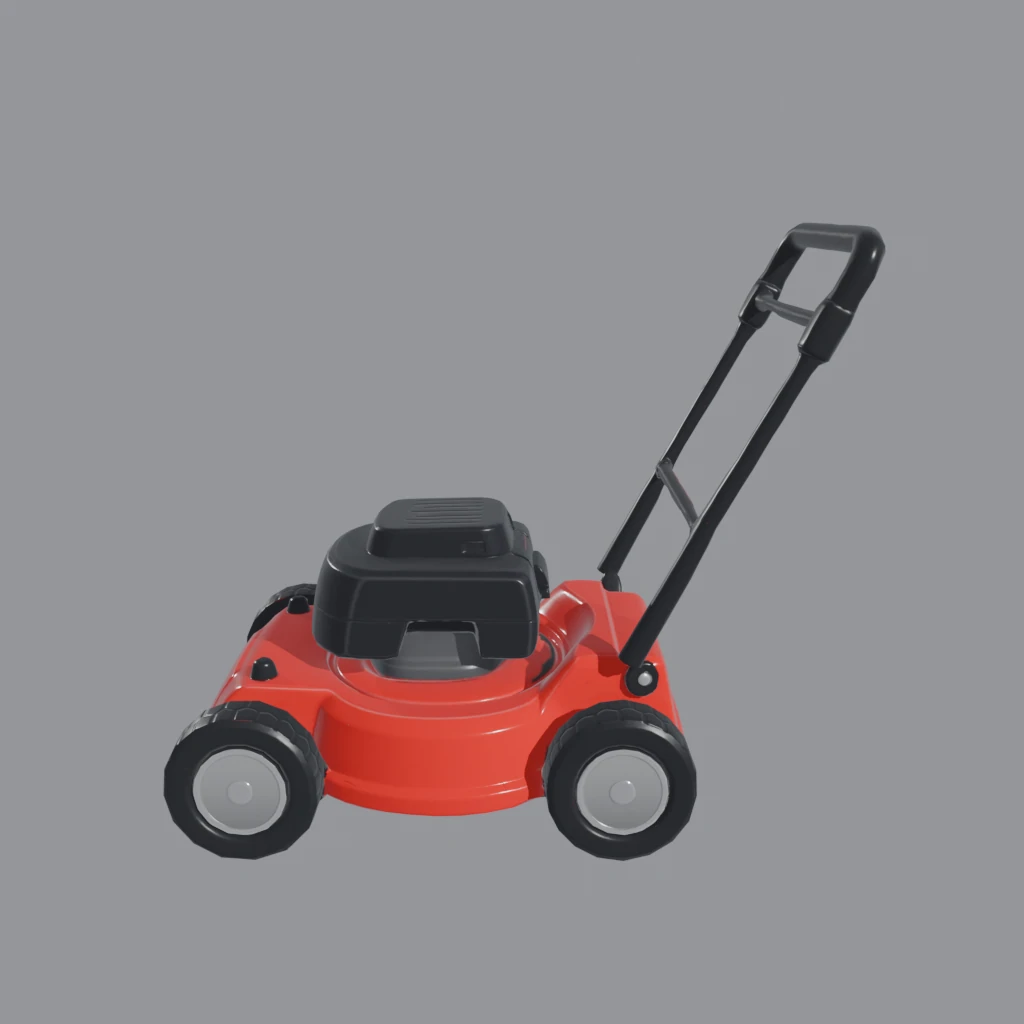
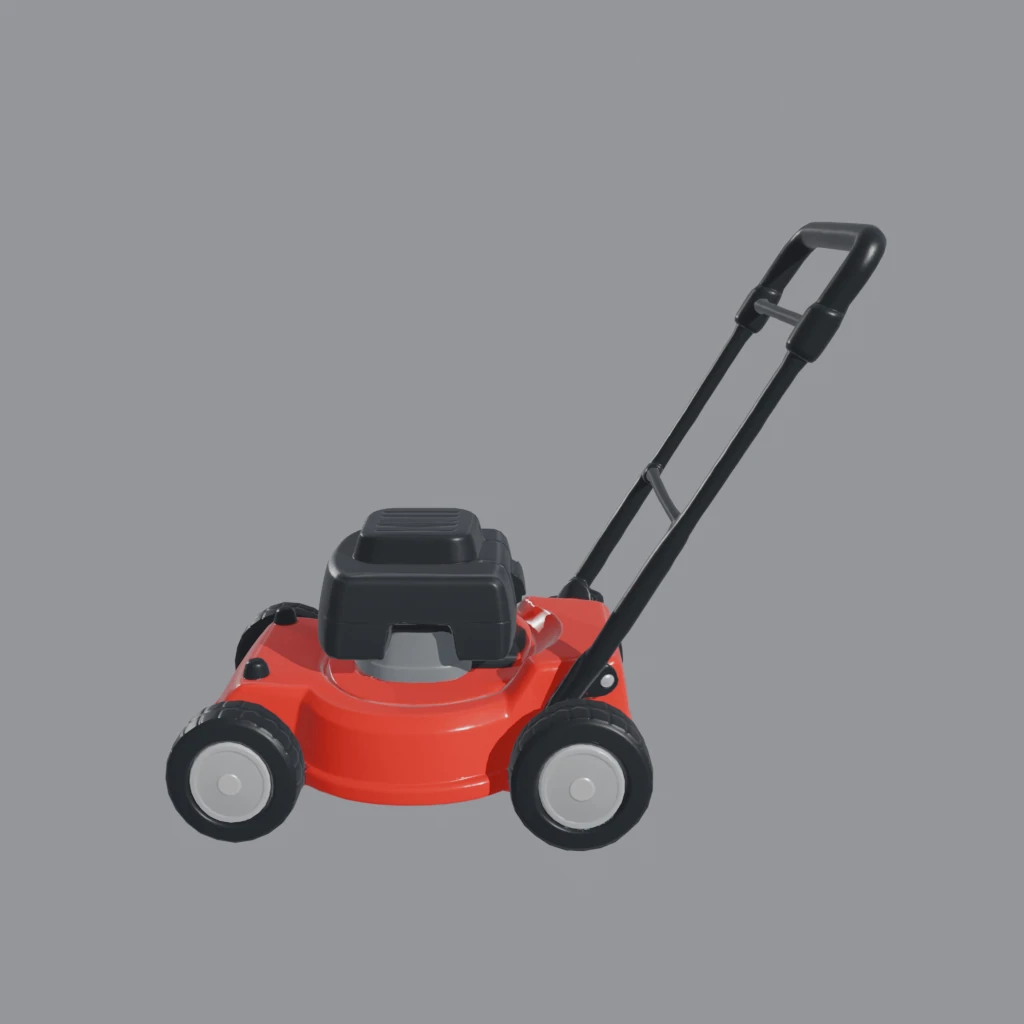
Update model picks

Changed region(s): [[0.1562, 0.2188, 0.875, 0.8438]]

diff --git a/docs/jobs/20260916-070020-7c269c65_e30f_471e_8b7c_ec1322e5fa7b/index.html b/docs/jobs/20260916-070020-7c269c65_e30f_471e_8b7c_ec1322e5fa7b/index.html
@@ -4,7 +4,7 @@
 <title>Hose and watering can picks</title>
 <link rel="preconnect" href="https://fonts.gstatic.com" crossorigin>
 <link rel="stylesheet" href="https://fonts.googleapis.com/css2?family=IBM+Plex+Sans:wght@400;600&family=IBM+Plex+Mono&display=swap">
-<link rel="stylesheet" href="../../assets/site.css?v=20260916T043755">
+<link rel="stylesheet" href="../../assets/site.css?v=20260916T050109">
 </head><body>
 <div class="wrap" id="page" data-job="20260916-070020-7c269c65_e30f_471e_8b7c_ec1322e5fa7b" data-script="D:/Unity/Projects/WashingGame03092026/tools/assetgen/assetgen.py">
 <header><h1>Pick a model for each crop</h1><span class="job-id mono">20260916-070020-7c269c65_e30f_471e_8b7c_ec1322e5fa7b</span></header>
@@ -14,21 +14,21 @@
 <div><h2>Hose_and_watering_can</h2><div class="spec mono">10,000 quads requested &middot; 0.40 m tall in game &middot; 1 candidate</div></div>
 </div>
 <div class="cand" data-crop="Hose_and_watering_can" data-candidate="Hose_and_watering_can__meshy">
-<div class="candhead"><span class="provider">Meshy at 10,000 quads</span><span class="meta mono">20,754 triangles &middot; 40 credits</span></div>
+<div class="candhead"><span class="provider">Meshy at 15,000 quads</span><span class="meta mono">31,448 triangles &middot; 40 credits</span></div>
 <div class="views">
-<a href="img/Hose_and_watering_can__meshy/yaw000.webp" target="_blank" rel="noopener"><img src="img/Hose_and_watering_can__meshy/yaw000.webp" alt="Meshy at 10,000 quads view yaw000" width="1024" height="1024" loading="lazy"></a>
-<a href="img/Hose_and_watering_can__meshy/yaw060.webp" target="_blank" rel="noopener"><img src="img/Hose_and_watering_can__meshy/yaw060.webp" alt="Meshy at 10,000 quads view yaw060" width="1024" height="1024" loading="lazy"></a>
-<a href="img/Hose_and_watering_can__meshy/yaw120.webp" target="_blank" rel="noopener"><img src="img/Hose_and_watering_can__meshy/yaw120.webp" alt="Meshy at 10,000 quads view yaw120" width="1024" height="1024" loading="lazy"></a>
-<a href="img/Hose_and_watering_can__meshy/yaw180.webp" target="_blank" rel="noopener"><img src="img/Hose_and_watering_can__meshy/yaw180.webp" alt="Meshy at 10,000 quads view yaw180" width="1024" height="1024" loading="lazy"></a>
-<a href="img/Hose_and_watering_can__meshy/yaw240.webp" target="_blank" rel="noopener"><img src="img/Hose_and_watering_can__meshy/yaw240.webp" alt="Meshy at 10,000 quads view yaw240" width="1024" height="1024" loading="lazy"></a>
-<a href="img/Hose_and_watering_can__meshy/yaw300.webp" target="_blank" rel="noopener"><img src="img/Hose_and_watering_can__meshy/yaw300.webp" alt="Meshy at 10,000 quads view yaw300" width="1024" height="1024" loading="lazy"></a>
+<a href="img/Hose_and_watering_can__meshy/yaw000.webp" target="_blank" rel="noopener"><img src="img/Hose_and_watering_can__meshy/yaw000.webp" alt="Meshy at 15,000 quads view yaw000" width="1024" height="1024" loading="lazy"></a>
+<a href="img/Hose_and_watering_can__meshy/yaw060.webp" target="_blank" rel="noopener"><img src="img/Hose_and_watering_can__meshy/yaw060.webp" alt="Meshy at 15,000 quads view yaw060" width="1024" height="1024" loading="lazy"></a>
+<a href="img/Hose_and_watering_can__meshy/yaw120.webp" target="_blank" rel="noopener"><img src="img/Hose_and_watering_can__meshy/yaw120.webp" alt="Meshy at 15,000 quads view yaw120" width="1024" height="1024" loading="lazy"></a>
+<a href="img/Hose_and_watering_can__meshy/yaw180.webp" target="_blank" rel="noopener"><img src="img/Hose_and_watering_can__meshy/yaw180.webp" alt="Meshy at 15,000 quads view yaw180" width="1024" height="1024" loading="lazy"></a>
+<a href="img/Hose_and_watering_can__meshy/yaw240.webp" target="_blank" rel="noopener"><img src="img/Hose_and_watering_can__meshy/yaw240.webp" alt="Meshy at 15,000 quads view yaw240" width="1024" height="1024" loading="lazy"></a>
+<a href="img/Hose_and_watering_can__meshy/yaw300.webp" target="_blank" rel="noopener"><img src="img/Hose_and_watering_can__meshy/yaw300.webp" alt="Meshy at 15,000 quads view yaw300" width="1024" height="1024" loading="lazy"></a>
 </div>
-<div class="warn">A normal map was downloaded but could not be folded into the GLB; the model probably has more than one material.</div>
+<div class="warn">31,448 triangles imports, but it is over the 25,000 the frame budget allows for a washable. The mesh is drawn three times a sprayed frame, so measure it on a device.</div>
 <div class="pickrow"><button class="pick" type="button">Pick this one</button></div></div>
 </section>
-<footer><a href="../../index.html?v=20260916T043755">All jobs</a> &middot; source image image.png &middot; rendered 2026-09-16T04:07:36Z</footer>
+<footer><a href="../../index.html?v=20260916T050109">All jobs</a> &middot; source image image.png &middot; rendered 2026-09-16T05:00:41Z</footer>
 </div>
 <div id="bar" hidden><div class="bar-inner"><div><div class="bar-label">Picked</div><div class="copyrow"><pre class="copy" id="summary"></pre><button class="copy" type="button" id="copy-summary">Copy</button></div></div><div><div class="bar-label">Run this to finish the job</div><div class="copyrow"><pre class="copy" id="command"></pre><button class="copy" type="button" id="copy-command">Copy</button></div></div></div></div>
-<script type="application/json" id="candidates">[{"id": "Hose_and_watering_can__meshy", "crop": "Hose_and_watering_can", "providerLabel": "Meshy at 10,000 quads", "triangles": 20754}]</script>
-<script src="../../assets/site.js?v=20260916T043755"></script>
+<script type="application/json" id="candidates">[{"id": "Hose_and_watering_can__meshy", "crop": "Hose_and_watering_can", "providerLabel": "Meshy at 15,000 quads", "triangles": 31448}]</script>
+<script src="../../assets/site.js?v=20260916T050109"></script>
 </body></html>

diff --git a/docs/jobs/20260916-065714-7c269c65_e30f_471e_8b7c_ec1322e5fa7b/index.html b/docs/jobs/20260916-065714-7c269c65_e30f_471e_8b7c_ec1322e5fa7b/index.html
@@ -4,7 +4,7 @@
 <title>Lawn mower picks</title>
 <link rel="preconnect" href="https://fonts.gstatic.com" crossorigin>
 <link rel="stylesheet" href="https://fonts.googleapis.com/css2?family=IBM+Plex+Sans:wght@400;600&family=IBM+Plex+Mono&display=swap">
-<link rel="stylesheet" href="../../assets/site.css?v=20260916T043755">
+<link rel="stylesheet" href="../../assets/site.css?v=20260916T050109">
 </head><body>
 <div class="wrap" id="page" data-job="20260916-065714-7c269c65_e30f_471e_8b7c_ec1322e5fa7b" data-script="D:/Unity/Projects/WashingGame03092026/tools/assetgen/assetgen.py">
 <header><h1>Pick a model for each crop</h1><span class="job-id mono">20260916-065714-7c269c65_e30f_471e_8b7c_ec1322e5fa7b</span></header>
@@ -14,21 +14,21 @@
 <div><h2>Lawn_mower</h2><div class="spec mono">10,000 quads requested &middot; 0.90 m tall in game &middot; 1 candidate</div></div>
 </div>
 <div class="cand" data-crop="Lawn_mower" data-candidate="Lawn_mower__meshy">
-<div class="candhead"><span class="provider">Meshy at 10,000 quads</span><span class="meta mono">19,110 triangles &middot; 40 credits</span></div>
+<div class="candhead"><span class="provider">Meshy at 15,000 quads</span><span class="meta mono">29,086 triangles &middot; 40 credits</span></div>
 <div class="views">
-<a href="img/Lawn_mower__meshy/yaw000.webp" target="_blank" rel="noopener"><img src="img/Lawn_mower__meshy/yaw000.webp" alt="Meshy at 10,000 quads view yaw000" width="1024" height="1024" loading="lazy"></a>
-<a href="img/Lawn_mower__meshy/yaw060.webp" target="_blank" rel="noopener"><img src="img/Lawn_mower__meshy/yaw060.webp" alt="Meshy at 10,000 quads view yaw060" width="1024" height="1024" loading="lazy"></a>
-<a href="img/Lawn_mower__meshy/yaw120.webp" target="_blank" rel="noopener"><img src="img/Lawn_mower__meshy/yaw120.webp" alt="Meshy at 10,000 quads view yaw120" width="1024" height="1024" loading="lazy"></a>
-<a href="img/Lawn_mower__meshy/yaw180.webp" target="_blank" rel="noopener"><img src="img/Lawn_mower__meshy/yaw180.webp" alt="Meshy at 10,000 quads view yaw180" width="1024" height="1024" loading="lazy"></a>
-<a href="img/Lawn_mower__meshy/yaw240.webp" target="_blank" rel="noopener"><img src="img/Lawn_mower__meshy/yaw240.webp" alt="Meshy at 10,000 quads view yaw240" width="1024" height="1024" loading="lazy"></a>
-<a href="img/Lawn_mower__meshy/yaw300.webp" target="_blank" rel="noopener"><img src="img/Lawn_mower__meshy/yaw300.webp" alt="Meshy at 10,000 quads view yaw300" width="1024" height="1024" loading="lazy"></a>
+<a href="img/Lawn_mower__meshy/yaw000.webp" target="_blank" rel="noopener"><img src="img/Lawn_mower__meshy/yaw000.webp" alt="Meshy at 15,000 quads view yaw000" width="1024" height="1024" loading="lazy"></a>
+<a href="img/Lawn_mower__meshy/yaw060.webp" target="_blank" rel="noopener"><img src="img/Lawn_mower__meshy/yaw060.webp" alt="Meshy at 15,000 quads view yaw060" width="1024" height="1024" loading="lazy"></a>
+<a href="img/Lawn_mower__meshy/yaw120.webp" target="_blank" rel="noopener"><img src="img/Lawn_mower__meshy/yaw120.webp" alt="Meshy at 15,000 quads view yaw120" width="1024" height="1024" loading="lazy"></a>
+<a href="img/Lawn_mower__meshy/yaw180.webp" target="_blank" rel="noopener"><img src="img/Lawn_mower__meshy/yaw180.webp" alt="Meshy at 15,000 quads view yaw180" width="1024" height="1024" loading="lazy"></a>
+<a href="img/Lawn_mower__meshy/yaw240.webp" target="_blank" rel="noopener"><img src="img/Lawn_mower__meshy/yaw240.webp" alt="Meshy at 15,000 quads view yaw240" width="1024" height="1024" loading="lazy"></a>
+<a href="img/Lawn_mower__meshy/yaw300.webp" target="_blank" rel="noopener"><img src="img/Lawn_mower__meshy/yaw300.webp" alt="Meshy at 15,000 quads view yaw300" width="1024" height="1024" loading="lazy"></a>
 </div>
-<div class="warn">A normal map was downloaded but could not be folded into the GLB; the model probably has more than one material.</div>
+<div class="warn">29,086 triangles imports, but it is over the 25,000 the frame budget allows for a washable. The mesh is drawn three times a sprayed frame, so measure it on a device.</div>
 <div class="pickrow"><button class="pick" type="button">Pick this one</button></div></div>
 </section>
-<footer><a href="../../index.html?v=20260916T043755">All jobs</a> &middot; source image image.png &middot; rendered 2026-09-16T04:05:09Z</footer>
+<footer><a href="../../index.html?v=20260916T050109">All jobs</a> &middot; source image image.png &middot; rendered 2026-09-16T05:00:45Z</footer>
 </div>
 <div id="bar" hidden><div class="bar-inner"><div><div class="bar-label">Picked</div><div class="copyrow"><pre class="copy" id="summary"></pre><button class="copy" type="button" id="copy-summary">Copy</button></div></div><div><div class="bar-label">Run this to finish the job</div><div class="copyrow"><pre class="copy" id="command"></pre><button class="copy" type="button" id="copy-command">Copy</button></div></div></div></div>
-<script type="application/json" id="candidates">[{"id": "Lawn_mower__meshy", "crop": "Lawn_mower", "providerLabel": "Meshy at 10,000 quads", "triangles": 19110}]</script>
-<script src="../../assets/site.js?v=20260916T043755"></script>
+<script type="application/json" id="candidates">[{"id": "Lawn_mower__meshy", "crop": "Lawn_mower", "providerLabel": "Meshy at 15,000 quads", "triangles": 29086}]</script>
+<script src="../../assets/site.js?v=20260916T050109"></script>
 </body></html>

diff --git a/docs/index.html b/docs/index.html
@@ -4,7 +4,7 @@
 <title>Model picks</title>
 <link rel="preconnect" href="https://fonts.gstatic.com" crossorigin>
 <link rel="stylesheet" href="https://fonts.googleapis.com/css2?family=IBM+Plex+Sans:wght@400;600&family=IBM+Plex+Mono&display=swap">
-<link rel="stylesheet" href="assets/site.css?v=20260916T043755">
+<link rel="stylesheet" href="assets/site.css?v=20260916T050109">
 </head><body>
 <div class="wrap" id="index">
 <header><h1>Model picks</h1><span class="job-id mono">6 jobs</span></header>
@@ -12,32 +12,32 @@
 <ul class="jobs">
 <li data-job="20260916-070234-asgsadsa" data-crops="1">
 <img src="jobs/20260916-070234-asgsadsa/img/crops/Crystals_in_a_pot.webp" alt="" loading="lazy">
-<div><div class="name"><a href="jobs/20260916-070234-asgsadsa/index.html?v=20260916T043755">Crystals_in_a_pot</a></div><div class="sub mono">20260916-070234-asgsadsa</div></div>
+<div><div class="name"><a href="jobs/20260916-070234-asgsadsa/index.html?v=20260916T050109">Crystals_in_a_pot</a></div><div class="sub mono">20260916-070234-asgsadsa</div></div>
 <span class="badge"></span>
 </li>
 <li data-job="20260916-070020-7c269c65_e30f_471e_8b7c_ec1322e5fa7b" data-crops="1">
 <img src="jobs/20260916-070020-7c269c65_e30f_471e_8b7c_ec1322e5fa7b/img/crops/Hose_and_watering_can.webp" alt="" loading="lazy">
-<div><div class="name"><a href="jobs/20260916-070020-7c269c65_e30f_471e_8b7c_ec1322e5fa7b/index.html?v=20260916T043755">Hose_and_watering_can</a></div><div class="sub mono">20260916-070020-7c269c65_e30f_471e_8b7c_ec1322e5fa7b</div></div>
+<div><div class="name"><a href="jobs/20260916-070020-7c269c65_e30f_471e_8b7c_ec1322e5fa7b/index.html?v=20260916T050109">Hose_and_watering_can</a></div><div class="sub mono">20260916-070020-7c269c65_e30f_471e_8b7c_ec1322e5fa7b</div></div>
 <span class="badge"></span>
 </li>
 <li data-job="20260916-065714-7c269c65_e30f_471e_8b7c_ec1322e5fa7b" data-crops="1">
 <img src="jobs/20260916-065714-7c269c65_e30f_471e_8b7c_ec1322e5fa7b/img/crops/Lawn_mower.webp" alt="" loading="lazy">
-<div><div class="name"><a href="jobs/20260916-065714-7c269c65_e30f_471e_8b7c_ec1322e5fa7b/index.html?v=20260916T043755">Lawn_mower</a></div><div class="sub mono">20260916-065714-7c269c65_e30f_471e_8b7c_ec1322e5fa7b</div></div>
+<div><div class="name"><a href="jobs/20260916-065714-7c269c65_e30f_471e_8b7c_ec1322e5fa7b/index.html?v=20260916T050109">Lawn_mower</a></div><div class="sub mono">20260916-065714-7c269c65_e30f_471e_8b7c_ec1322e5fa7b</div></div>
 <span class="badge"></span>
 </li>
 <li data-job="20260916-065610-7c269c65_e30f_471e_8b7c_ec1322e5fa7b" data-crops="1">
 <img src="jobs/20260916-065610-7c269c65_e30f_471e_8b7c_ec1322e5fa7b/img/crops/Football.webp" alt="" loading="lazy">
-<div><div class="name"><a href="jobs/20260916-065610-7c269c65_e30f_471e_8b7c_ec1322e5fa7b/index.html?v=20260916T043755">Football</a></div><div class="sub mono">20260916-065610-7c269c65_e30f_471e_8b7c_ec1322e5fa7b</div></div>
+<div><div class="name"><a href="jobs/20260916-065610-7c269c65_e30f_471e_8b7c_ec1322e5fa7b/index.html?v=20260916T050109">Football</a></div><div class="sub mono">20260916-065610-7c269c65_e30f_471e_8b7c_ec1322e5fa7b</div></div>
 <span class="badge"></span>
 </li>
 <li data-job="20260916-061114-asgsadsa" data-crops="1">
 <img src="jobs/20260916-061114-asgsadsa/img/crops/Dummy.webp" alt="" loading="lazy">
-<div><div class="name"><a href="jobs/20260916-061114-asgsadsa/index.html?v=20260916T043755">Dummy</a></div><div class="sub mono">20260916-061114-asgsadsa</div></div>
+<div><div class="name"><a href="jobs/20260916-061114-asgsadsa/index.html?v=20260916T050109">Dummy</a></div><div class="sub mono">20260916-061114-asgsadsa</div></div>
 <span class="badge"></span>
 </li>
 <li data-job="20260915-174521-asgsadsa" data-crops="1">
 <img src="jobs/20260915-174521-asgsadsa/img/crops/Stool.webp" alt="" loading="lazy">
-<div><div class="name"><a href="jobs/20260915-174521-asgsadsa/index.html?v=20260916T043755">Stool</a></div><div class="sub mono">20260915-174521-asgsadsa</div></div>
+<div><div class="name"><a href="jobs/20260915-174521-asgsadsa/index.html?v=20260916T050109">Stool</a></div><div class="sub mono">20260915-174521-asgsadsa</div></div>
 <span class="badge"></span>
 </li>
 </ul>

diff --git a/docs/jobs/20260916-065610-7c269c65_e30f_471e_8b7c_ec1322e5fa7b/index.html b/docs/jobs/20260916-065610-7c269c65_e30f_471e_8b7c_ec1322e5fa7b/index.html
@@ -4,7 +4,7 @@
 <title>Football picks</title>
 <link rel="preconnect" href="https://fonts.gstatic.com" crossorigin>
 <link rel="stylesheet" href="https://fonts.googleapis.com/css2?family=IBM+Plex+Sans:wght@400;600&family=IBM+Plex+Mono&display=swap">
-<link rel="stylesheet" href="../../assets/site.css?v=20260916T043755">
+<link rel="stylesheet" href="../../assets/site.css?v=20260916T050109">
 </head><body>
 <div class="wrap" id="page" data-job="20260916-065610-7c269c65_e30f_471e_8b7c_ec1322e5fa7b" data-script="D:/Unity/Projects/WashingGame03092026/tools/assetgen/assetgen.py">
 <header><h1>Pick a model for each crop</h1><span class="job-id mono">20260916-065610-7c269c65_e30f_471e_8b7c_ec1322e5fa7b</span></header>
@@ -39,9 +39,9 @@
 <div class="warn">A normal map was downloaded but could not be folded into the GLB; the model probably has more than one material.</div>
 <div class="pickrow"><button class="pick" type="button">Pick this one</button></div></div>
 </section>
-<footer><a href="../../index.html?v=20260916T043755">All jobs</a> &middot; source image image.png &middot; rendered 2026-09-16T04:07:56Z</footer>
+<footer><a href="../../index.html?v=20260916T050109">All jobs</a> &middot; source image image.png &middot; rendered 2026-09-16T04:07:56Z</footer>
 </div>
 <div id="bar" hidden><div class="bar-inner"><div><div class="bar-label">Picked</div><div class="copyrow"><pre class="copy" id="summary"></pre><button class="copy" type="button" id="copy-summary">Copy</button></div></div><div><div class="bar-label">Run this to finish the job</div><div class="copyrow"><pre class="copy" id="command"></pre><button class="copy" type="button" id="copy-command">Copy</button></div></div></div></div>
 <script type="application/json" id="candidates">[{"id": "Football__meshy", "crop": "Football", "providerLabel": "Meshy at 10,000 quads", "triangles": 17914}, {"id": "Football__meshy_20000", "crop": "Football", "providerLabel": "Meshy at 20,000 quads", "triangles": 36557}]</script>
-<script src="../../assets/site.js?v=20260916T043755"></script>
+<script src="../../assets/site.js?v=20260916T050109"></script>
 </body></html>

diff --git a/docs/jobs/20260916-070234-asgsadsa/index.html b/docs/jobs/20260916-070234-asgsadsa/index.html
@@ -4,7 +4,7 @@
 <title>Crystals in a pot picks</title>
 <link rel="preconnect" href="https://fonts.gstatic.com" crossorigin>
 <link rel="stylesheet" href="https://fonts.googleapis.com/css2?family=IBM+Plex+Sans:wght@400;600&family=IBM+Plex+Mono&display=swap">
-<link rel="stylesheet" href="../../assets/site.css?v=20260916T043755">
+<link rel="stylesheet" href="../../assets/site.css?v=20260916T050109">
 </head><body>
 <div class="wrap" id="page" data-job="20260916-070234-asgsadsa" data-script="D:/Unity/Projects/WashingGame03092026/tools/assetgen/assetgen.py">
 <header><h1>Pick a model for each crop</h1><span class="job-id mono">20260916-070234-asgsadsa</span></header>
@@ -26,9 +26,9 @@
 <div class="warn">A normal map was downloaded but could not be folded into the GLB; the model probably has more than one material.</div>
 <div class="pickrow"><button class="pick" type="button">Pick this one</button></div></div>
 </section>
-<footer><a href="../../index.html?v=20260916T043755">All jobs</a> &middot; source image image.png &middot; rendered 2026-09-16T04:37:41Z</footer>
+<footer><a href="../../index.html?v=20260916T050109">All jobs</a> &middot; source image image.png &middot; rendered 2026-09-16T04:37:41Z</footer>
 </div>
 <div id="bar" hidden><div class="bar-inner"><div><div class="bar-label">Picked</div><div class="copyrow"><pre class="copy" id="summary"></pre><button class="copy" type="button" id="copy-summary">Copy</button></div></div><div><div class="bar-label">Run this to finish the job</div><div class="copyrow"><pre class="copy" id="command"></pre><button class="copy" type="button" id="copy-command">Copy</button></div></div></div></div>
 <script type="application/json" id="candidates">[{"id": "Crystals_in_a_pot__meshy", "crop": "Crystals_in_a_pot", "providerLabel": "Meshy at 10,000 quads", "triangles": 22684}]</script>
-<script src="../../assets/site.js?v=20260916T043755"></script>
+<script src="../../assets/site.js?v=20260916T050109"></script>
 </body></html>

diff --git a/docs/jobs/20260916-061114-asgsadsa/index.html b/docs/jobs/20260916-061114-asgsadsa/index.html
@@ -4,7 +4,7 @@
 <title>Dummy picks</title>
 <link rel="preconnect" href="https://fonts.gstatic.com" crossorigin>
 <link rel="stylesheet" href="https://fonts.googleapis.com/css2?family=IBM+Plex+Sans:wght@400;600&family=IBM+Plex+Mono&display=swap">
-<link rel="stylesheet" href="../../assets/site.css?v=20260916T043755">
+<link rel="stylesheet" href="../../assets/site.css?v=20260916T050109">
 </head><body>
 <div class="wrap" id="page" data-job="20260916-061114-asgsadsa" data-script="D:/Unity/Projects/WashingGame03092026/tools/assetgen/assetgen.py">
 <header><h1>Pick a model for each crop</h1><span class="job-id mono">20260916-061114-asgsadsa</span></header>
@@ -37,9 +37,9 @@
 </div>
 <div class="pickrow"><button class="pick" type="button">Pick this one</button></div></div>
 </section>
-<footer><a href="../../index.html?v=20260916T043755">All jobs</a> &middot; source image image.png &middot; rendered 2026-09-16T03:18:57Z</footer>
+<footer><a href="../../index.html?v=20260916T050109">All jobs</a> &middot; source image image.png &middot; rendered 2026-09-16T03:18:57Z</footer>
 </div>
 <div id="bar" hidden><div class="bar-inner"><div><div class="bar-label">Picked</div><div class="copyrow"><pre class="copy" id="summary"></pre><button class="copy" type="button" id="copy-summary">Copy</button></div></div><div><div class="bar-label">Run this to finish the job</div><div class="copyrow"><pre class="copy" id="command"></pre><button class="copy" type="button" id="copy-command">Copy</button></div></div></div></div>
 <script type="application/json" id="candidates">[{"id": "Dummy__meshy", "crop": "Dummy", "providerLabel": "Meshy at 10,000 quads", "triangles": 19842}, {"id": "Dummy__tripo", "crop": "Dummy", "providerLabel": "Tripo at 10,000 quads", "triangles": 19046}]</script>
-<script src="../../assets/site.js?v=20260916T043755"></script>
+<script src="../../assets/site.js?v=20260916T050109"></script>
 </body></html>

diff --git a/docs/jobs/20260915-174521-asgsadsa/index.html b/docs/jobs/20260915-174521-asgsadsa/index.html
@@ -4,7 +4,7 @@
 <title>Stool picks</title>
 <link rel="preconnect" href="https://fonts.gstatic.com" crossorigin>
 <link rel="stylesheet" href="https://fonts.googleapis.com/css2?family=IBM+Plex+Sans:wght@400;600&family=IBM+Plex+Mono&display=swap">
-<link rel="stylesheet" href="../../assets/site.css?v=20260916T043755">
+<link rel="stylesheet" href="../../assets/site.css?v=20260916T050109">
 </head><body>
 <div class="wrap" id="page" data-job="20260915-174521-asgsadsa" data-script="D:/Unity/Projects/WashingGame03092026/tools/assetgen/assetgen.py">
 <header><h1>Pick a model for each crop</h1><span class="job-id mono">20260915-174521-asgsadsa</span></header>
@@ -37,9 +37,9 @@
 </div>
 <div class="pickrow"><button class="pick" type="button">Pick this one</button></div></div>
 </section>
-<footer><a href="../../index.html?v=20260916T043755">All jobs</a> &middot; source image image.png &middot; rendered 2026-09-16T01:55:21Z</footer>
+<footer><a href="../../index.html?v=20260916T050109">All jobs</a> &middot; source image image.png &middot; rendered 2026-09-16T01:55:21Z</footer>
 </div>
 <div id="bar" hidden><div class="bar-inner"><div><div class="bar-label">Picked</div><div class="copyrow"><pre class="copy" id="summary"></pre><button class="copy" type="button" id="copy-summary">Copy</button></div></div><div><div class="bar-label">Run this to finish the job</div><div class="copyrow"><pre class="copy" id="command"></pre><button class="copy" type="button" id="copy-command">Copy</button></div></div></div></div>
 <script type="application/json" id="candidates">[{"id": "Stool__meshy", "crop": "Stool", "providerLabel": "Meshy at 10,000 quads", "triangles": 20578}, {"id": "Stool__tripo", "crop": "Stool", "providerLabel": "Tripo", "triangles": 17254}]</script>
-<script src="../../assets/site.js?v=20260916T043755"></script>
+<script src="../../assets/site.js?v=20260916T050109"></script>
 </body></html>
